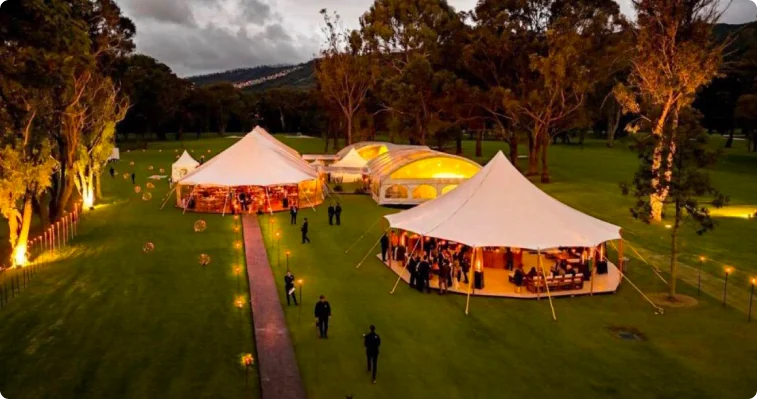
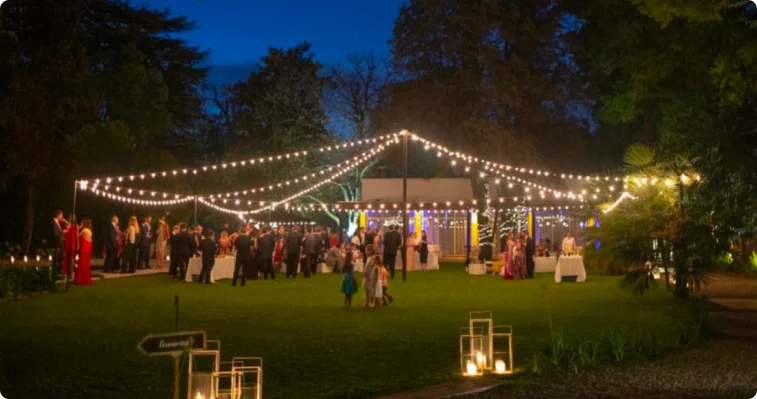
update, header scrolling to musica section

diff --git a/src/containers/bodas/MaESection.tsx b/src/containers/bodas/MaESection.tsx
@@ -1,11 +1,30 @@
+"use client"
 import { Link } from "react-router"
 import image_banner from "../../assets/img_orquesta_section_bodas.webp"
 import son_del_caribe from "../../assets/Son del Caribe.webp"
 import caribes_img from "../../assets/Son_Caribe_logo 1.webp"
+import { useEffect } from 'react';
+import { useLocation } from 'react-router';
 
 export default function MaESectionBodas() {
+
+    const location = useLocation();
+
+    useEffect(() => {
+        if (location.state?.scrollTo) {
+            const element = document.getElementById(location.state.scrollTo);
+
+            if (element) {
+                element.scrollIntoView({
+                    behavior: 'smooth',
+                    block: 'start'
+                });
+            }
+        }
+    }, [location]);
+
     return (
-        <section className="m_a_e_section_bodas pb-20 md:pb-25" id="musica"
+        <section id="musica" className="m_a_e_section_bodas pb-20 md:pb-25"
             style={{
                 backgroundColor: "#fff",
                 width: "100%",
@@ -20,7 +39,7 @@ export default function MaESectionBodas() {
         >
             <div className="header_containerm_a_e_section_bodas flex justify-center items-center gap-5 mb-5">
                 <div className="line w-[82px] h-[3px] bg-[#390447]"></div>
-                <h2 className="titlem_a_e_section_bodas uppercase text-[25px] md:text-[50px] xl:text-[60px] 3xl:text-[72px] md:leading-[55px] text-center uppercase text-[#390447] font-bold">
+                <h2  className="titlem_a_e_section_bodas uppercase text-[25px] md:text-[50px] xl:text-[60px] 3xl:text-[72px] md:leading-[55px] text-center uppercase text-[#390447] font-bold">
                     Música & <br /> entretenimiento
                 </h2>
                 <div className="line w-[82px] h-[3px] bg-[#390447]"></div>
@@ -57,12 +76,12 @@ export default function MaESectionBodas() {
                 <img src={caribes_img} alt="Son del Caribe" className="absolute -top-[145px] md:-top-[145px]" />
                 <p className="text_container_2_m_a_e_section_bodas w-[80%] text-[24px] xl:text-[28px] 3xl:text-[32px] text-center">
                     <span className="font-bold">Transforma cada celebración en una experiencia vibrante.</span><br />
-                    Un show en vivo que fusiona ritmos latinos, clásicos y urbanos en un formato crossover que conecta generaciones y mantiene la pista encendida de principio a fin.<br/><br/>
+                    Un show en vivo que fusiona ritmos latinos, clásicos y urbanos en un formato crossover que conecta generaciones y mantiene la pista encendida de principio a fin.<br /><br />
                     La <span className="font-bold">Orquesta son del Caribe </span>ofrece  formaciones flexibles de <span className="font-bold">3 a 12 integrantes,</span> adaptándose a cada tipo de evento con energía, versatilidad y una puesta en escena impecable.
 
                 </p>
                 <Link className="flex justify-center" to="https://wa.me/573188016709?Evento+con+Son+del+Caribe" target="_blank">
-                <button
+                    <button
                         style={{
                             display: "flex",
                             justifyContent: "center",
@@ -75,8 +94,8 @@ export default function MaESectionBodas() {
                             height: "40px",
                         }}
                         className="absolute z-[10] w-[max-content] md:w-[max-content] -bottom-5 cursor-pointer bg-[#390447] md:text-[30px] xl:text-[36px] 3xl:text-[42px] transition duration-300 ease-in-out text-white font-bold hover:bg-[#fff] hover:text-[#AD0569]">
-                            Elegir Son del Caribe
-                </button>
+                        Elegir Son del Caribe
+                    </button>
                 </Link>
             </div>
         </section>

diff --git a/src/components/Header.tsx b/src/components/Header.tsx
@@ -3,13 +3,19 @@
 import { useState } from "react"
 import { Link } from "react-router"
 import logo from "../assets/logo_header.png"
-import logo_b from "../assets/logo.webp"
 import menuIcon from "../assets/menu_open_icon.png"
 import menuCloseIcon from "../assets/menu_close_icon.png"
+import { useNavigate } from "react-router"
 
 export default function Header() {
 
-    const [isMenuOpen, setIsMenuOpen] = useState(false)
+    const [isMenuOpen, setIsMenuOpen] = useState(false);
+    const navigate = useNavigate();
+
+    const goToSection = () => {
+        console.log("aquí")
+        navigate('/bodas', { state: { scrollTo: 'musica' } });
+    };
 
 
     return (
@@ -42,11 +48,15 @@ export default function Header() {
                 ].join(" ").concat(isMenuOpen ? " top-0" : " top-[-110%]")}
                 >
                     <Link to={"/"}>
-                        <img src={logo} className="md:hidden w-[100%] max-w-[450px] md:w-[50%]" alt="Logo Event Clap" />
+                        <img src={logo} onClick={() => setIsMenuOpen(false)} className="md:hidden w-[100%] max-w-[450px] md:w-[50%]" alt="Logo Event Clap" />
                     </Link>
                     <Link className="w-[60%] text-center md:w-auto bg-[#fff] border border-white py-2 px-4 rounded-[25px] text-white hover:text-[#700893] hover:bg-[#fff] hover:border-[#700893] md:border-0 md:bg-transparent md:hover:text-[#390447]" onClick={() => setIsMenuOpen(false)} to={"/#we_section_home"}><li className="font-bold uppercase text-[#390447] md:text-white md:hover:text-[#390447]">Nosotros</li></Link>
                     <Link className="w-[60%] text-center md:w-auto bg-[#fff] border border-white py-2 px-4 rounded-[25px] text-white hover:text-[#700893] hover:bg-[#fff] hover:border-[#700893] md:border-0 md:bg-transparent md:hover:text-[#390447]" onClick={() => setIsMenuOpen(false)} to={"/#services_section_home"}><li className="font-bold uppercase text-[#390447] md:text-white md:hover:text-[#390447]">Servicios</li></Link>
-                    <Link className="w-[60%] text-center md:w-auto bg-[#fff] border border-white py-2 px-4 rounded-[25px] text-white hover:text-[#700893] hover:bg-[#fff] hover:border-[#700893] md:border-0 md:bg-transparent md:hover:text-[#390447]" onClick={() => setIsMenuOpen(false)} to={"/bodas/#musica"}><li className="font-bold uppercase text-[#390447] md:text-white md:hover:text-[#390447]">Música</li></Link>
+                    <Link className="w-[60%] text-center md:w-auto bg-[#fff] border border-white py-2 px-4 rounded-[25px] text-white hover:text-[#700893] hover:bg-[#fff] hover:border-[#700893] md:border-0 md:bg-transparent md:hover:text-[#390447]" onClick={(e) => {
+                        e.preventDefault();
+                        setIsMenuOpen(false);
+                        goToSection();
+                    }} to={"#"}><li className="font-bold uppercase text-[#390447] md:text-white md:hover:text-[#390447]">Música</li></Link>
                     <Link className="w-[60%] text-center md:w-auto bg-[#fff] border border-white py-2 px-4 rounded-[25px] text-white hover:text-[#700893] hover:bg-[#fff] hover:border-[#700893] md:border-0 md:bg-transparent md:hover:text-[#390447]" onClick={() => setIsMenuOpen(false)} to={"#gallery_section"}><li className="font-bold uppercase text-[#390447] md:text-white md:hover:text-[#390447]">Galería</li></Link>
                     <Link onClick={() => setIsMenuOpen(false)} className="w-[60%] text-center md:w-auto bg-[#700893] border border-white py-2 px-4 rounded-[25px] text-white hover:text-[#700893] hover:bg-[#fff] hover:border-[#700893] mt-10 md:mt-0" to={"#contact_section"}><li className="font-bold uppercase">Contacto</li></Link>
                 </ul>

diff --git a/src/containers/home/HeroSection.tsx b/src/containers/home/HeroSection.tsx
@@ -6,7 +6,7 @@ export default function HeroSectionHome() {
 
     return (
         <section
-            className="hero_section_home relative w-screen bg-gray-900 min-h-screen h-screen md:min-h-[750px]"
+            className="hero_section_home relative w-screen bg-gray-900 min-h-screen h-screen md:min-h-[750px] 3xl:min-h-[960px]"
             id="hero_section_home"
             style={{
                 width:"100vw",
@@ -22,15 +22,15 @@ export default function HeroSectionHome() {
         >
             <Wave/>
             <div 
-                className="info_section_home w-full md:w-[77%] flex flex-col items-center md:items-start justify-center gap-6"
+                className="info_section_home w-[77%] md:w-[77%] flex flex-col items-start md:items-start justify-center gap-6"
                 style={{
                     
                 }}
             >
-                <h1 className="title_info_section_home text-center md:text-left w-[50%] text-[30px] md:text-[40px] 3xl:text-[56px] font-bold leading-16 text-white">
+                <h1 className="title_info_section_home text-left w-[80%] md:w-[50%] text-[32px] md:text-[40px] 3xl:text-[56px] font-bold md:leading-16 text-white">
                     Donde la emoción se encuentra con la innovación.
                 </h1>
-                <h4 className="subtitle_info_section_home w-85 text-center md:text-left text-[26px] xl:text-[30px] 3xl:text-[34px] font-light leading-10 text-white">
+                <h4 className="subtitle_info_section_home w-85 text-left text-[26px] xl:text-[30px] 3xl:text-[34px] font-medium text-shadow-lg leading-10 text-white">
                     Eventos con propósito, emoción y tecnología 4.0. 
                 </h4>
                 <Link to="https://wa.me/573188016709?text=Conocer+m%C3%A1s+sobre+los+servicios+Event+Clap" target="_blank">

diff --git a/src/containers/eventos_corporativos/HeroSection.tsx b/src/containers/eventos_corporativos/HeroSection.tsx
@@ -4,7 +4,7 @@ import { Link } from "react-router"
 
 export default function HeroSectionEventosCorporativos() {
     return (
-        <section className="hero_section_eventos_corporativos flex flex-col md:flex-row justify-end md:justify-center items-center gap-10 py-20 px-5 min-h-screen h-screen md:min-h-[750px]" style={{
+        <section className="hero_section_eventos_corporativos flex flex-col md:flex-row justify-end md:justify-center items-center gap-10 py-20 px-5 min-h-screen h-screen md:min-h-[750px] 3xl:min-h-[960px]" style={{
             width: "100vw",
             position:"relative",
             backgroundImage: `url(${image_banner})`,

diff --git a/src/containers/activacion_btl/HeroSection.tsx b/src/containers/activacion_btl/HeroSection.tsx
@@ -4,7 +4,7 @@ import { Link } from "react-router"
 
 export default function HeroSectionActivacionBTL() {
     return (
-        <section className="hero_section_activacion_btl justify-center items-end md:items-center pb-20 pb-0 min-h-screen h-screen md:min-h-[750px]" style={{
+        <section className="hero_section_activacion_btl justify-center items-end md:items-center pb-20 pb-0 min-h-screen h-screen md:min-h-[750px] 3xl:min-h-[960px]" style={{
             width: "100vw",
             position:"relative", 
             backgroundImage: `url(${image_banner})`,

diff --git a/src/containers/marketing_emocional/HeroSection.tsx b/src/containers/marketing_emocional/HeroSection.tsx
@@ -4,7 +4,7 @@ import { Link } from "react-router"
 
 export default function HeroSectionMarketingEmocional() {
     return (
-        <section className="hero_section_marketing_emocional justify-center items-end md:items-center pb-4 min-h-screen h-screen md:min-h-[750px]" 
+        <section className="hero_section_marketing_emocional justify-center items-end md:items-center pb-4 min-h-screen h-screen md:min-h-[750px] 3xl:min-h-[960px]" 
         style={{
             width: "100vw",
             position: "relative",
